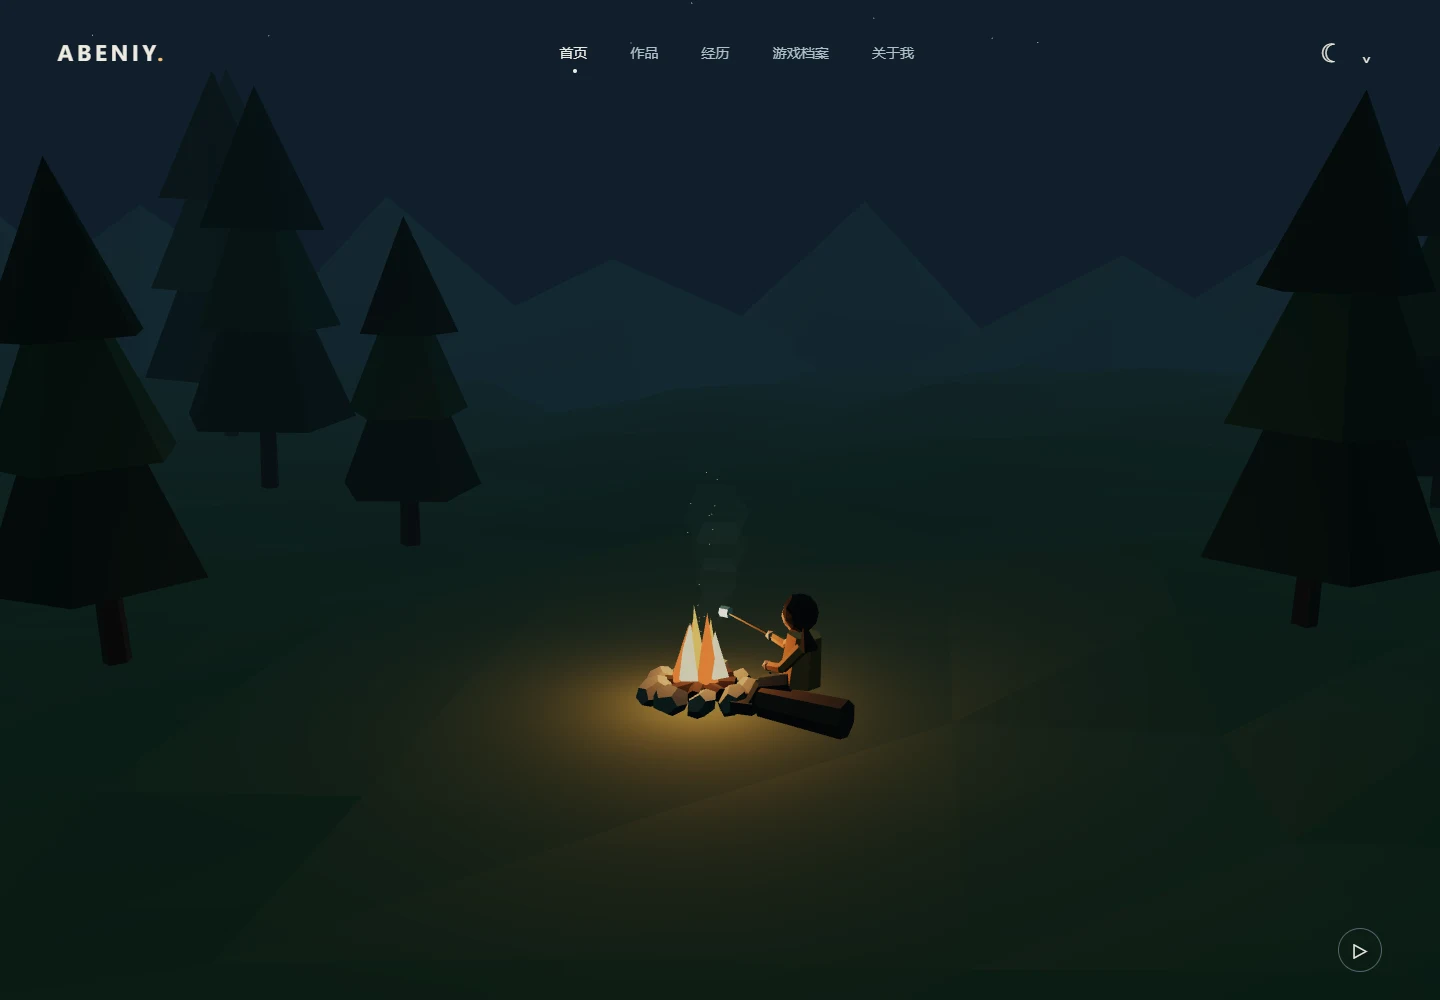
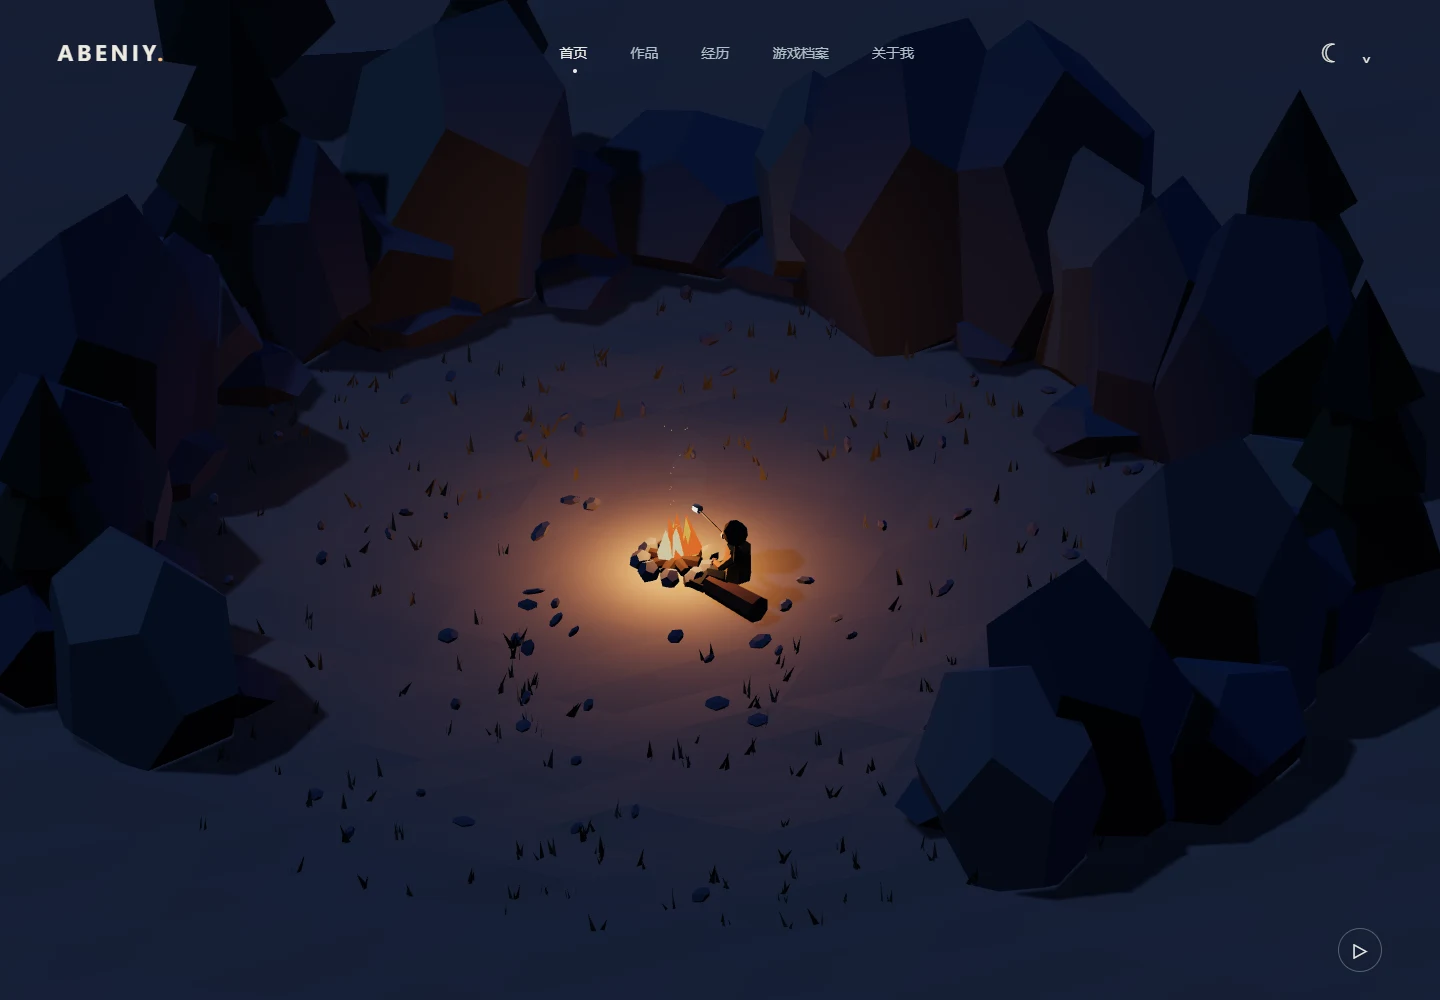
Reframe camp as elevated moonlit rock clearing

diff --git a/lib/camp-scene.ts b/lib/camp-scene.ts
@@ -5,29 +5,37 @@ export function createCamp(canvas: HTMLCanvasElement, onReady: () => void, onSlo
   const renderer = new THREE.WebGLRenderer({canvas, antialias:true, alpha:false, preserveDrawingBuffer:true, powerPreference:'low-power'});
   renderer.outputColorSpace = THREE.SRGBColorSpace; renderer.toneMapping = THREE.ACESFilmicToneMapping;
   const scene = new THREE.Scene();
-  const camera = new THREE.PerspectiveCamera(42,1,.1,160);
+  const camera = new THREE.OrthographicCamera(-16,16,11,-11,.1,160);
+  renderer.shadowMap.enabled=true;renderer.shadowMap.type=THREE.PCFSoftShadowMap;renderer.shadowMap.autoUpdate=false;
   const fog = new THREE.FogExp2('#101f2c',.017); scene.fog=fog;
   scene.background=new THREE.Color('#101f2c');
-  const hemisphere = new THREE.HemisphereLight('#7aafc2','#273728',1); scene.add(hemisphere);
-  const sun = new THREE.DirectionalLight('#e4e8d2',2);sun.position.set(-6,12,6);scene.add(sun);
+  const hemisphere = new THREE.HemisphereLight('#647bc5','#171e39',1); scene.add(hemisphere);
+  const sun = new THREE.DirectionalLight('#708cff',2);sun.position.set(-8,14,5);sun.castShadow=true;sun.shadow.mapSize.set(1024,1024);Object.assign(sun.shadow.camera,{left:-20,right:20,top:20,bottom:-20,near:.5,far:60});sun.shadow.bias=-.001;sun.shadow.normalBias=.04;scene.add(sun);
   const fireLight = new THREE.PointLight('#ff9a45',15,14,1.6);fireLight.position.set(0,1.15,0);scene.add(fireLight);
-  const fill = new THREE.DirectionalLight('#7aa9b8',.5);fill.position.set(6,8,-8);scene.add(fill);
+  const fill = new THREE.DirectionalLight('#5169b9',.5);fill.position.set(8,6,-10);scene.add(fill);
   const materials: THREE.Material[]=[];
   const mat = (color: string, extra: THREE.MeshStandardMaterialParameters={})=>{const m=new THREE.MeshStandardMaterial({color,flatShading:true,roughness:1,...extra});materials.push(m);return m;};
-  const groundMat=mat('#53674c'); const bark=mat('#554b3a');const leaves=mat('#334d40');const leaves2=mat('#46614a');
-  const rockMat=mat('#77817a'); const coal=mat('#322b27');const skin=mat('#d2a185'); const hair=mat('#292b2a');
+  const groundMat=mat('#92938b'); const bark=mat('#655444');const leaves=mat('#3b514b');const leaves2=mat('#536553');
+  const rockMat=mat('#727c90'); const coal=mat('#322b27');const skin=mat('#d2a185'); const hair=mat('#292b2a');
   const jacket=mat('#c08f52');const trousers=mat('#35474a');const boot=mat('#292f31');const cream=mat('#ffeed0');
-  const mesh=(geo:THREE.BufferGeometry, material:THREE.Material, x=0,y=0,z=0,parent:THREE.Object3D=scene)=>{const m=new THREE.Mesh(geo,material);m.position.set(x,y,z);parent.add(m);return m;};
+  const mesh=(geo:THREE.BufferGeometry, material:THREE.Material, x=0,y=0,z=0,parent:THREE.Object3D=scene)=>{const m=new THREE.Mesh(geo,material);m.position.set(x,y,z);m.castShadow=true;m.receiveShadow=true;parent.add(m);return m;};
   let seed=281;const random=()=>{seed=(seed*1664525+1013904223)>>>0;return seed/4294967296;};
-  const groundGeo=new THREE.PlaneGeometry(110,100,28,26);groundGeo.rotateX(-Math.PI/2);
+  const groundGeo=new THREE.PlaneGeometry(100,100,65,65);groundGeo.rotateX(-Math.PI/2);
   const positions=groundGeo.attributes.position;
-  for(let i=0;i<positions.count;i++){const x=positions.getX(i),z=positions.getZ(i);const edge=Math.min(1,Math.hypot(x,z)/12);positions.setY(i,-.15+((random()-.5)*1.2+Math.sin(x*.12)*.7)*edge);}
+  for(let i=0;i<positions.count;i++){const x=positions.getX(i),z=positions.getZ(i);const edge=Math.min(1,Math.hypot(x,z)/14);positions.setY(i,-.10+(random()-.5)*.22*edge);}
   groundGeo.computeVertexNormals();mesh(groundGeo,groundMat);
-  // Sparse, faceted ridgelines keep the horizon open around the camp.
-  const mountainMat=mat('#647c79');
-  for(let i=0;i<9;i++){const m=mesh(new THREE.ConeGeometry(13+random()*7,7+random()*7,5),mountainMat,(i-4)*12,1,-42-random()*8);m.rotation.y=random()*4;}
+  // Broken natural rock walls frame the clearing; the high camera never reveals a horizon.
+  const cliffMat=mat('#697689');const cliffLight=mat('#849095');
+  for(let i=0;i<25;i++){const a=Math.PI*.72+i/24*Math.PI*1.48;const radius=10.7+random()*1.8;const x=Math.cos(a)*radius*1.12,z=Math.sin(a)*radius;const h=1.3+random()*3.7;const r=mesh(new THREE.DodecahedronGeometry(1,0),i%3?cliffMat:cliffLight,x,h*.45,z);r.scale.set(1.4+random()*1.5,h,1.2+random()*1.6);r.rotation.set((random()-.5)*.35,random()*Math.PI,(random()-.5)*.35);if(i%2===0){const ledge=mesh(new THREE.DodecahedronGeometry(1,0),cliffMat,x*.89,.35,z*.9);ledge.scale.set(1.8,.5,1.2);ledge.rotation.y=random()*4;}}
+  // Sparse ground detail uses instancing to preserve mobile performance.
+  const grassMat=mat('#70775f',{side:THREE.DoubleSide});
+  const bladeGeo=new THREE.BufferGeometry();bladeGeo.setAttribute('position',new THREE.Float32BufferAttribute([-.07,0,0,.07,0,0,.11,.5,.04],3));bladeGeo.computeVertexNormals();
+  const grass=new THREE.InstancedMesh(bladeGeo,grassMat,1050);scene.add(grass);const transform=new THREE.Object3D();
+  for(let i=0;i<350;i++){const a=random()*Math.PI*2;const radius=2.9+Math.pow(random(),.65)*11;const x=Math.cos(a)*radius,z=Math.sin(a)*radius;for(let j=0;j<3;j++){transform.position.set(x+(random()-.5)*.2,-.05,z+(random()-.5)*.2);transform.rotation.set(0,random()*6.28,(random()-.5)*.65);transform.scale.setScalar(.35+random()*.6);transform.updateMatrix();grass.setMatrixAt(i*3+j,transform.matrix);}}
+  const pebbleGeo=new THREE.DodecahedronGeometry(.13,0);const pebbles=new THREE.InstancedMesh(pebbleGeo,rockMat,90);scene.add(pebbles);
+  for(let i=0;i<90;i++){const a=random()*6.28,r=2.5+random()*10;transform.position.set(Math.cos(a)*r,.03,Math.sin(a)*r);transform.rotation.set(random(),random(),random());transform.scale.set(.5+random()*1.8,.3+random()*.6,.5+random());transform.updateMatrix();pebbles.setMatrixAt(i,transform.matrix);}
   function pine(x:number,z:number,height:number){const group=new THREE.Group();group.position.set(x,0,z);scene.add(group);mesh(new THREE.CylinderGeometry(.10,.24,height,5),bark,0,height/2,0,group);for(let level=0;level<3;level++){const h=height*(.55-level*.1);const radius=height*(.23-level*.035);const c=mesh(new THREE.ConeGeometry(radius,h,5),level%2?leaves2:leaves,0,height*(.46+level*.2),0,group);c.rotation.y=level*.7+random();}group.rotation.z=(random()-.5)*.08;}
-  [[-10,0,8],[-8,-8,7],[-14,-13,10],[-19,-20,11],[10,-4,9],[15,-12,10],[21,-23,12],[-24,-30,12],[28,-35,12]].forEach(([x,z,h])=>pine(x,z,h));
+  [[-12,-5,8],[-9,-12,7],[-15,-13,9],[10,-10,8],[14,-4,8],[-11,8,7]].forEach(([x,z,h])=>pine(x,z,h));
   // A small ring of stones and crossed logs form the only camp props.
   for(let i=0;i<9;i++){const a=i/9*Math.PI*2;const r=mesh(new THREE.DodecahedronGeometry(.23+random()*.06,0),rockMat,Math.cos(a)*.74,.12,Math.sin(a)*.64);r.scale.set(1.15,.7,.9);r.rotation.set(random(),random(),random());}
   for(let i=0;i<4;i++){const log=mesh(new THREE.CylinderGeometry(.12,.16,1.13,7),coal,0,.18,0);log.rotation.z=Math.PI/2;log.rotation.y=i*Math.PI/4;}
@@ -53,22 +61,23 @@ export function createCamp(canvas: HTMLCanvasElement, onReady: () => void, onSlo
   const sparksGeo=new THREE.BufferGeometry();const sparksData=new Float32Array(18*3);const sparkSeeds=Array.from({length:18},()=>random());sparksGeo.setAttribute('position',new THREE.BufferAttribute(sparksData,3));const sparksMat=new THREE.PointsMaterial({color:'#ffba65',size:.032,transparent:true,opacity:.75,depthWrite:false});materials.push(sparksMat);scene.add(new THREE.Points(sparksGeo,sparksMat));
   const smokeMaterial=new THREE.MeshBasicMaterial({color:'#7b8c90',transparent:true,opacity:.025,depthWrite:false});materials.push(smokeMaterial);const smoke:THREE.Mesh[]=[];for(let i=0;i<5;i++){const s=mesh(new THREE.IcosahedronGeometry(.35,0),smokeMaterial,0,2+i*.4,0);smoke.push(s);}
   let desired:Theme='night';let blend=0;let paused=false;let disposed=false;let visible=true;let inView=true;let frame=0;let last=0;let time=0;let frames=0;let sample=0;let reduced=false;let ready=false;
-  const nightSky=new THREE.Color('#101f2c'),daySky=new THREE.Color('#c8dbdc');const nightFog=new THREE.Color('#162a35'),dayFog=new THREE.Color('#c8d7ce');
+  const nightSky=new THREE.Color('#0b1129'),daySky=new THREE.Color('#c8dbdc');const nightFog=new THREE.Color('#10172f'),dayFog=new THREE.Color('#c8d7ce');
+  const moonColor=new THREE.Color('#8196d0'),sunColor=new THREE.Color('#fff0d5'),nightAmbient=new THREE.Color('#72819b'),dayAmbient=new THREE.Color('#bcd4e0');
   const pointer=new THREE.Vector2();const smooth=new THREE.Vector2();
   let mobile=false;
-  function resize(){const w=canvas.clientWidth,h=canvas.clientHeight;if(!w||!h)return;mobile=w<760;renderer.setPixelRatio(Math.min(window.devicePixelRatio,mobile?1:1.5));renderer.setSize(w,h,false);camera.aspect=w/h;camera.fov=mobile?49:42;camera.position.set(mobile?2.3:3.3,mobile?8.5:7.7,mobile?22.5:19);camera.lookAt(0,2.7,-2);camera.updateProjectionMatrix();draw(0);}
+  function resize(){const w=canvas.clientWidth,h=canvas.clientHeight;if(!w||!h)return;mobile=w<760;renderer.setPixelRatio(Math.min(window.devicePixelRatio,mobile?1:1.5));renderer.setSize(w,h,false);const halfHeight=mobile?12.5:10.5;camera.left=-halfHeight*w/h;camera.right=halfHeight*w/h;camera.top=halfHeight;camera.bottom=-halfHeight;camera.position.set(10,19,23);camera.lookAt(0,0,-2.6);camera.updateProjectionMatrix();renderer.shadowMap.needsUpdate=true;draw(0);}
   const observer=new ResizeObserver(resize);observer.observe(canvas);
   function draw(dt:number){
     const target=desired==='day'?1:0;blend=reduced?target:THREE.MathUtils.lerp(blend,target,Math.min(1,dt/.10));if(Math.abs(blend-target)<.001)blend=target;
-    (scene.background as THREE.Color).copy(nightSky).lerp(daySky,blend);fog.color.copy(nightFog).lerp(dayFog,blend);fog.density=THREE.MathUtils.lerp(.019,.013,blend);
-    hemisphere.intensity=THREE.MathUtils.lerp(.65,2.2,blend);sun.intensity=THREE.MathUtils.lerp(.15,2.6,blend);fill.intensity=THREE.MathUtils.lerp(.5,.8,blend);renderer.toneMappingExposure=THREE.MathUtils.lerp(1.15,1.0,blend);
-    starsMat.opacity=(1-blend)*.85;fireLight.intensity=THREE.MathUtils.lerp(17,3,blend)*(1+Math.sin(time*7)*.06);smokeMaterial.opacity=THREE.MathUtils.lerp(.025,.035,blend);
+    (scene.background as THREE.Color).copy(nightSky).lerp(daySky,blend);fog.color.copy(nightFog).lerp(dayFog,blend);fog.density=THREE.MathUtils.lerp(.009,.006,blend);
+    hemisphere.intensity=THREE.MathUtils.lerp(.35,1.8,blend);hemisphere.color.copy(nightAmbient).lerp(dayAmbient,blend);sun.color.copy(moonColor).lerp(sunColor,blend);sun.intensity=THREE.MathUtils.lerp(.95,2.8,blend);fill.intensity=THREE.MathUtils.lerp(.9,.35,blend);renderer.toneMappingExposure=THREE.MathUtils.lerp(.85,1.0,blend);
+    starsMat.opacity=0;fireLight.intensity=THREE.MathUtils.lerp(35,4,blend)*(1+Math.sin(time*7)*.06);smokeMaterial.opacity=THREE.MathUtils.lerp(.025,.035,blend);
     for(let i=0;i<flames.length;i++){flames[i].scale.y=1+Math.sin(time*5+i*1.5)*.13;flames[i].rotation.y=time*.15+i;}
     person.scale.y=1+Math.sin(time*1.4)*.006;marshmallow.rotation.x=time*.15;
     for(let i=0;i<18;i++){const y=(time*.38+sparkSeeds[i]*3)%3;sparksData[i*3]=Math.sin(y*2+i)*(.08+y*.07);sparksData[i*3+1]=.65+y;sparksData[i*3+2]=Math.cos(y+i)*.15;}
     sparksGeo.attributes.position.needsUpdate=true;
     smoke.forEach((s,i)=>{const y=(time*.22+i*.5)%3;s.position.set(Math.sin(y)*.3,.8+y,-.05);s.scale.setScalar(.5+y*.5);});
-    smooth.lerp(pointer,.04);camera.lookAt(smooth.x*.5,2.7+smooth.y*.25,-2);renderer.render(scene,camera);
+    smooth.lerp(pointer,.04);camera.lookAt(smooth.x*.35,smooth.y*.2,-2.6);renderer.render(scene,camera);
     positionHotspots([new THREE.Vector3(0,.8,0),new THREE.Vector3(1.65,1.1,.6)].map(p=>{p.project(camera);return {x:(p.x+1)*50,y:(1-p.y)*50};}));
     if(!ready){ready=true;onReady();}
   }

diff --git a/components/Camp.module.css b/components/Camp.module.css
@@ -1,4 +1,4 @@
 .camp{position:relative;width:100%;height:100svh;min-height:480px;overflow:hidden;background:#101f2c}:global([data-theme=day]) .camp{background:#c8dbdc}.canvas,.backdrop{position:absolute;inset:0;width:100%;height:100%}.canvas{display:block;opacity:0;transition:opacity .4s}.canvas.ready{opacity:1}.backdrop picture{position:absolute;inset:0;transition:opacity .4s}.backdrop img{width:100%;height:100%;object-fit:cover}.day{opacity:0}.night{opacity:1}:global([data-theme=day]) .day{opacity:1}:global([data-theme=day]) .night{opacity:0}
 .hotspots{position:absolute;inset:0;pointer-events:none}.hotspots a{position:absolute;width:64px;height:64px;border-radius:50%;pointer-events:auto;text-decoration:none;display:grid;place-items:center}.hotspots a span{position:absolute;white-space:nowrap;bottom:100%;padding:4px 12px;background:var(--surface);border:1px solid var(--line);border-radius:4px;font-size:14px;opacity:0;transform:translateY(4px);transition:opacity .15s,transform .15s}.hotspots a:hover span,.hotspots a:focus-visible span{opacity:1;transform:translateY(0)}.fire{left:calc(50% - 36px);top:57%}.person{left:55%;top:53%}.sky{left:calc(50% - 32px);top:25%}.pause{position:absolute;bottom:28px;right:clamp(20px,4vw,64px);min-width:44px;min-height:44px;border:1px solid transparent;border-radius:50%;background:transparent;color:var(--text);cursor:pointer;opacity:.7;font-size:20px}.pause:hover{opacity:1;border-color:var(--line)}
-.hotspots a{transform:translate(-50%,-50%)}.fire{left:48.5%;top:65%}.person{left:55%;top:64%}.sky{left:50%;top:25%}
+.hotspots a{transform:translate(-50%,-50%)}.fire{left:calc(50% - 4svh);top:54%}.person{left:calc(50% + 2svh);top:55%}.sky{left:50%;top:25%}
 @media(max-width:759px){.hotspots{display:none}.pause{bottom:20px;right:20px}}
